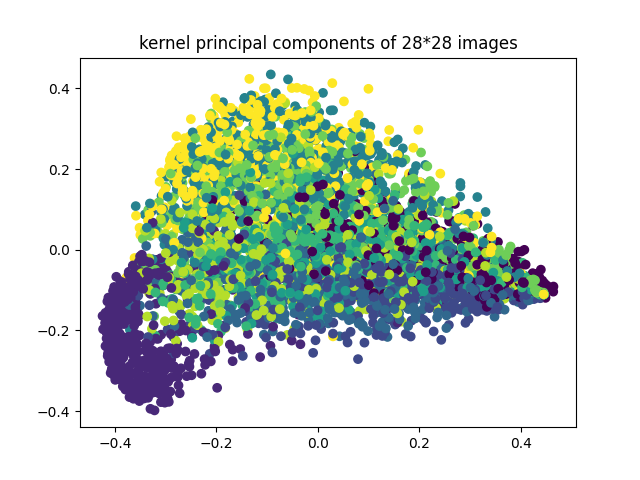
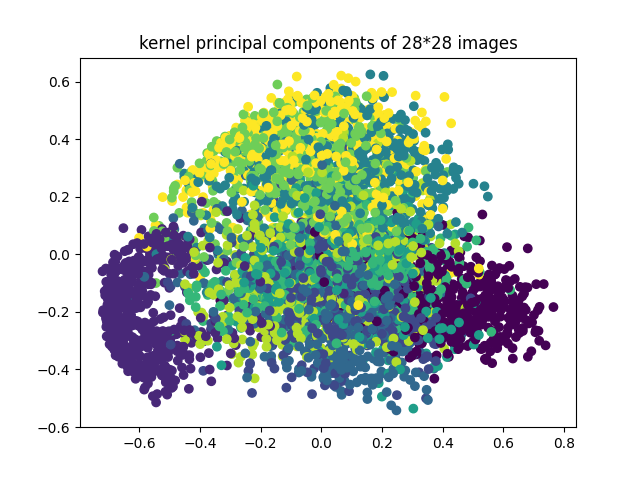
found best kernel for pca

diff --git a/pca/mnistpca.py b/pca/mnistpca.py
@@ -101,7 +101,7 @@ plt.close()
 
 #kernelPCA
 max_samples = 5000
-kpca = KernelPCA(n_components=9, kernel='rbf')
+kpca = KernelPCA(n_components=9, kernel='cosine')
 data = np.transpose(X_centered[:,:max_samples])
 
 
